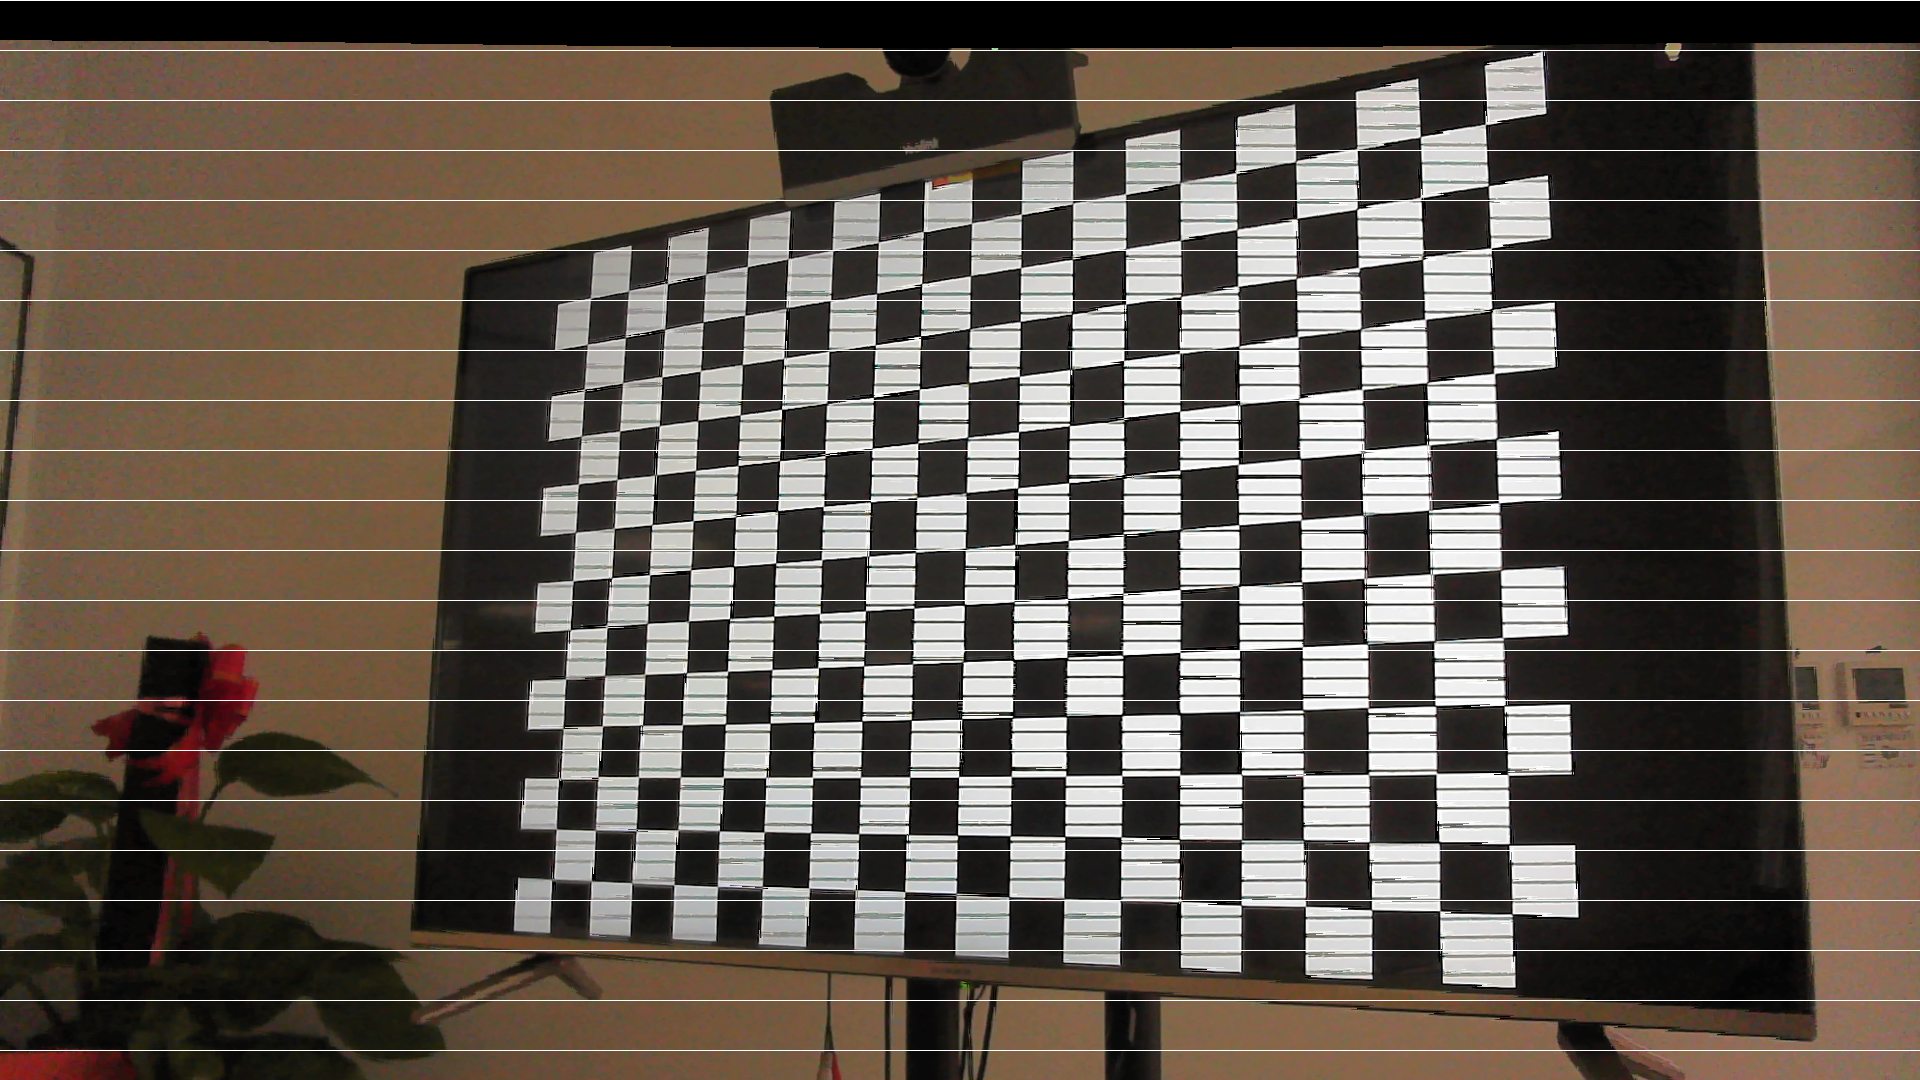
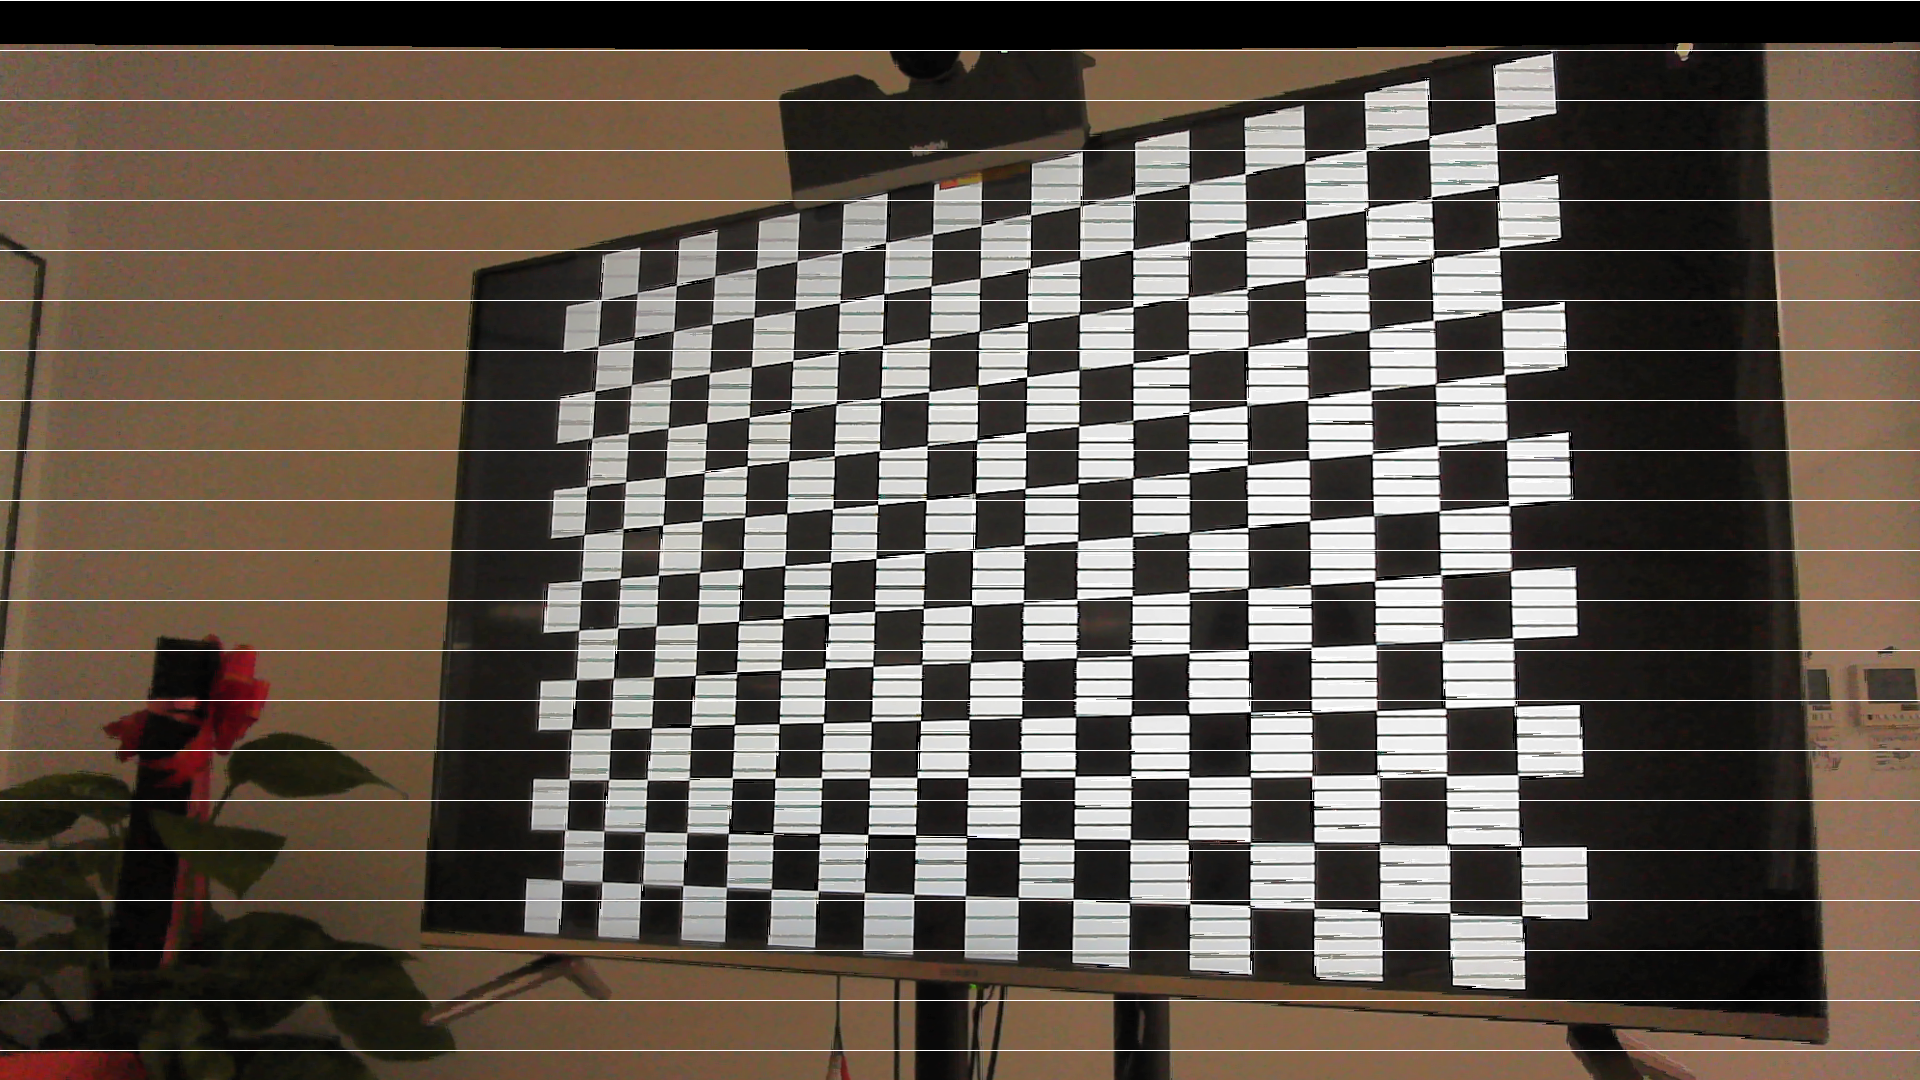
实现映射表形式的极线校正

diff --git a/RectifyImp.cpp b/RectifyImp.cpp
@@ -74,40 +74,6 @@ undistortion(Matrix<double, 3, 1> point, Matrix<double, 1, 6> radial_dis, Matrix
     // 得到倾斜平面的投影矩阵
 }
 
-Matrix<double, 3, 1>
-undistortionPoints(Matrix<double, 3, 1> point, Matrix<double, 3, 3> intrinsic, Matrix<double, 1, 6> radial_dis,
-                   Matrix<double, 1, 2> tangential_dis,Matrix<double, 3, 3> R_new) {
-    // 根据畸变像素坐标以及投影矩阵反解畸变投影坐标
-    double x = point(0), y = point(1);
-    cout << x << "," << y << endl;
-    x = x * intrinsic(0, 0) + intrinsic(0, 2);
-    y = y * intrinsic(1, 1) + intrinsic(1, 2);
-    cout << x << "," << y << endl;
-    // 根据畸变投影坐标以及畸变参数反解标准投影坐标
-    for (int j = 0; j < 5; j++) {
-        double r2 = x * x + y * y;
-        double formula = (1 + radial_dis(3) * r2 + radial_dis(4) * r2 * r2 + radial_dis(5) * r2 * r2 * r2) /
-                         (radial_dis(0) * r2 + radial_dis(1) * r2 * r2 + radial_dis(2) * r2 * r2 * r2);
-        double deltaX = 2 * tangential_dis(0) * x * y + tangential_dis(1) * (r2 + 2 * x * x);
-        double deltaY = tangential_dis(0) * (r2 + 2 * y * y) + 2 * tangential_dis(1) * x * y;
-        x = (x - deltaX) * formula;
-        y = (y - deltaY) * formula;
-    }
-
-    double xx = R_new(0,0)*x + R_new(0,1)*y + R_new(0,2);
-    double yy = R_new(1,0)*x + R_new(1,1)*y + R_new(1,2);
-    double ww = 1./(R_new(2,0)*x + R_new(2,1)*y + R_new(2,2));
-    x = xx*ww;
-    y = yy*ww;
-    point(0) = x;
-    point(1) = y;
-    return point;
-
-
-
-}
-
-
 // 双线性插值法
 vector<int> BilinearInterpolation(Matrix<double, 3, 1> point, cv::Mat image) {
     //cout << point << endl;
@@ -117,9 +83,8 @@ vector<int> BilinearInterpolation(Matrix<double, 3, 1> point, cv::Mat image) {
     bgr1[2] = 0;
     double y = point(0);
     double x = point(1);
-    if (y > 1920 || y < 0 || x > 1080 || x < 0) {
+    if (y > 1920 || y < 0 || x > 1080 || x < 0)
         return bgr1;
-    }
     int x1 = floor(x);
     int x2 = x1 + 1;
     int y1 = floor(y);
@@ -154,20 +119,14 @@ vector<int> BilinearInterpolation(Matrix<double, 3, 1> point, cv::Mat image) {
     double G = ((y - y1) / (y2 - y1)) * G1 + ((y2 - y) / (y2 - y1)) * G2;
     double B = ((y - y1) / (y2 - y1)) * B1 + ((y2 - y) / (y2 - y1)) * B2;
 
-    if (y > 1920 || y < 0 || x > 1080 || x < 0) {
-        R = 0;
-        G = 0;
-        B = 0;
-    }
     bgr1[0] = B;
     bgr1[1] = G;
     bgr1[2] = R;
-    //cout << bgr1[0] << endl;
     return bgr1;
 }
 
 // 多通道图像赋值
-void ColorChart(Mat image, int x, int y, vector<int> point) {
+void ColorChart(Mat &image, int x, int y, vector<int> point) {
     if (y % 50 == 0) {
         point[0] = 255;
         point[1] = 255;
@@ -178,17 +137,46 @@ void ColorChart(Mat image, int x, int y, vector<int> point) {
     image.at<cv::Vec3b>(y, x)[2] = point[2];
 }
 
-//
-Matrix<double, 3, 1>
-ImgRotating(Matrix<double, 3, 1> point, Matrix<double, 3, 3> intrinsic, Matrix<double, 3, 3> leftToright,
-            Matrix<double, 3, 3> R_new, int lorr) {
+void
+mapRectify(Mat &image, Matrix<double, 3, 3> intrinsic, Matrix<double, 3, 3> oneself_intrinsic,
+           Matrix<double, 1, 6> radial_dis, Matrix<double, 1, 2> tangential_dis, Matrix<double, 3, 3> leftToright,
+           Matrix<double, 3, 3> R_new, int lorr, Mat &mapx, Mat &mapy) {
     if (lorr == 0)
-        point = intrinsic * leftToright * R_new.inverse() * point;
+        R_new = oneself_intrinsic * leftToright * R_new.inverse();
     else
-        point = intrinsic * R_new.inverse() * point;
-    return point;
+        R_new = oneself_intrinsic * R_new.inverse();
+#pragma omp parallel for
+    for (int x = 0; x < image.cols; x++) {
+        for (int y = 0; y < image.rows; y++) {
+            Matrix<double, 3, 1> img_pixel, img_image, img_rotating, img_undistortion;
+            img_pixel << x, y, 1;
+            img_image = intrinsic.inverse() * img_pixel;
+            img_undistortion = undistortion(img_image, radial_dis, tangential_dis);
+            img_rotating = R_new * img_undistortion;
+            img_rotating(0) = img_rotating(0) / img_rotating(2);
+            img_rotating(1) = img_rotating(1) / img_rotating(2);
+            mapx.at<double>(y, x) = img_rotating(0);
+            mapy.at<double>(y, x) = img_rotating(1);
+        }
+    }
 }
 
+void remapRectify(Mat &image, Mat &dst, Mat &res, Mat mapx, Mat mapy, int lorr) {
+#pragma omp parallel for
+    for (int u = 0; u < image.cols; u++) {
+        for (int v = 0; v < image.rows; v++) {
+            Matrix<double, 3, 1> point;
+            point << mapx.at<double>(v, u), mapy.at<double>(v, u), 1;
+            vector<int> bgr = BilinearInterpolation(point, image);
+            // 三通道图赋值
+            ColorChart(dst, u, v, bgr);
+            if (lorr == 0)
+                ColorChart(res, u, v, bgr);
+            else if (lorr == -1)
+                ColorChart(res, image.cols + u, v, bgr);
+        }
+    }
+}
 
 // 极线校正
 Mat myPolarRectify(Mat &image, Mat &res, Matrix<double, 3, 3> oneself_intrinsic, Matrix<double, 3, 3> intrinsic,
@@ -199,7 +187,7 @@ Mat myPolarRectify(Mat &image, Mat &res, Matrix<double, 3, 3> oneself_intrinsic,
         R_new = oneself_intrinsic * leftToright * R_new.inverse();
     else
         R_new = oneself_intrinsic * R_new.inverse();
-//    omp_set_num_threads(4);
+    cout << "left11" << endl;
     for (int x = 0; x < image.cols; x++) {
 #pragma omp parallel for
         for (int y = 0; y < image.rows; y++) {
@@ -212,7 +200,6 @@ Mat myPolarRectify(Mat &image, Mat &res, Matrix<double, 3, 3> oneself_intrinsic,
             img_undistortion = undistortion(img_image, radial_dis, tangential_dis);
             // 旋转坐标系
             img_rotating = R_new * img_undistortion;
-            //img_rotating = ImgRotating(img_undistortion, oneself_intrinsic, leftToright, R_new, lorr);
             //坐标归一化
             img_rotating(0) = img_rotating(0) / img_rotating(2);
             img_rotating(1) = img_rotating(1) / img_rotating(2);
@@ -226,7 +213,5 @@ Mat myPolarRectify(Mat &image, Mat &res, Matrix<double, 3, 3> oneself_intrinsic,
                 ColorChart(res, image.cols + x, y, bgr);
         }
     }
-    return dst;
+    return image;
 }
-
-// 新*r*r = 旧

diff --git a/main.cpp b/main.cpp
@@ -1,30 +1,5 @@
 #include "rectify.h"
 
-Matrix<Matrix<double, 3, 1>, 1, 4>
-newPointsUndistort(Matrix<double, 3, 3> &intrinsic, cv::Mat &image, Matrix<double, 1, 6> radial_dis,
-                   Matrix<double, 1, 2> tangential_dis,Matrix<double, 3, 3> R_new) {
-    double h = image.cols, w = image.rows;
-    Matrix<Matrix<double, 3, 1>, 1, 4> points;
-    points << Matrix<double, 3, 1>(0, 0, 1),
-            Matrix<double, 3, 1>(0, w, 1),
-            Matrix<double, 3, 1>(h, w, 1),
-            Matrix<double, 3, 1>(h, 0, 1);
-    points[0] = undistortion(points[0], radial_dis, tangential_dis);
-    points[1] = undistortion(points[1], radial_dis, tangential_dis);
-    points[2] = undistortion(points[2], radial_dis, tangential_dis);
-    points[3] = undistortion(points[3], radial_dis, tangential_dis);
-    cout << points[1] << endl;
-    points[1] = undistortionPoints(points[1], intrinsic, radial_dis, tangential_dis,R_new);
-    cout << points[1] << endl;
-    // 倾斜平面矩阵*point点
-    // 经过判断对x，y点进行放缩
-    // xd*fx+cx
-    // 得到倾斜平面的投影矩阵
-
-    return points;
-}
-
-
 int main() {
     double start = omp_get_wtime();
     Matrix<double, 3, 3> left_intrinsic, right_intrinsic, intrinsic, R_new;
@@ -37,18 +12,34 @@ int main() {
     cv::Mat dst = Mat(left_img.rows, left_img.cols, CV_8UC3, Scalar(0));
     cv::Mat dst1 = Mat(right_img.rows, right_img.cols, CV_8UC3, Scalar(0));
     cv::Mat res = Mat(left_img.rows, left_img.cols * 2, CV_8UC3, Scalar(0));
-    Matrix<Matrix<double, 3, 1>, 1, 4> points = newPointsUndistort(intrinsic, left_img, left_radial_dis,
-                                                                   left_tangential_dis,R_new);
     // 获取相机参数信息并取得新的旋转矩阵
     R_new = ParametersCamera(left_intrinsic, right_intrinsic, intrinsic, leftToright, translation_vector,
                              left_radial_dis,
                              right_radial_dis, left_tangential_dis, right_tangential_dis);
-    // 左相机处理
-    dst = myPolarRectify(left_img, res, left_intrinsic, intrinsic, left_radial_dis, left_tangential_dis, leftToright,
-                         R_new, 0);
-    // 右相机处理
-    dst1 = myPolarRectify(right_img, res, right_intrinsic, intrinsic, right_radial_dis, right_tangential_dis,
-                          leftToright, R_new, -1);
+//    // 左相机处理
+//    dst = myPolarRectify(left_img, res, left_intrinsic, intrinsic, left_radial_dis, left_tangential_dis, leftToright,
+//                         R_new, 0);
+//    // 右相机处理
+//    dst1 = myPolarRectify(right_img, res, right_intrinsic, intrinsic, right_radial_dis, right_tangential_dis,
+//                          leftToright, R_new, -1);
+//-------------------------------映射表形式
+    cv::Mat mapx_l = Mat(left_img.rows, left_img.cols, CV_64F, Scalar(0));
+    cv::Mat mapy_l = Mat(left_img.rows, left_img.cols, CV_64F, Scalar(0));
+    int x,y;
+    double *mpx = mapx_l.ptr<double>(1079);
+    mapRectify(left_img, intrinsic, left_intrinsic, left_radial_dis, left_tangential_dis, leftToright, R_new, 0, mapx_l,
+               mapy_l);
+
+    cv::Mat mapx_r = Mat(right_img.rows, right_img.cols, CV_64F, Scalar(0));
+    cv::Mat mapy_r = Mat(right_img.rows, right_img.cols, CV_64F, Scalar(0));
+    mapRectify(right_img, intrinsic, right_intrinsic, right_radial_dis, right_tangential_dis, leftToright, R_new, 0,
+               mapx_r, mapy_r);
+
+    cout << mpx[1919]<<endl;
+    cout << mapy_l.ptr<double>(1079) [1919]<<endl;
+    remapRectify(left_img, dst, res, mapx_l, mapy_l, 0);
+    remapRectify(right_img, dst1, res, mapx_r, mapy_r, -1);
+
     imwrite("../images/left_2.png", dst);
     imwrite("../images/right_2.png", dst1);
     imwrite("../images/result_2.png", res);

diff --git a/test.cpp b/test.cpp
@@ -66,3 +66,42 @@
 //                        0, new_f[1], new_c[1],
 //                        0, 0, 1)) << endl;
 //}
+
+//// 极线校正
+//Mat myPolarRectify(Mat &image, Mat &res, Matrix<double, 3, 3> oneself_intrinsic, Matrix<double, 3, 3> intrinsic,
+//                   Matrix<double, 1, 6> radial_dis, Matrix<double, 1, 2> tangential_dis,
+//                   Matrix<double, 3, 3> leftToright, Matrix<double, 3, 3> R_new, int lorr) {
+//    cv::Mat dst = Mat(image.rows, image.cols, CV_8UC3, Scalar(0));
+//    if (lorr == 0)
+//        R_new = oneself_intrinsic * leftToright * R_new.inverse();
+//    else
+//        R_new = oneself_intrinsic * R_new.inverse();
+//    cout << "left11" << endl;
+//    for (int x = 0; x < image.cols; x++) {
+//#pragma omp parallel for
+//        for (int y = 0; y < image.rows; y++) {
+//            Matrix<double, 3, 1> img_pixel, img_image, img_rotating, img_undistortion;
+//            img_pixel << x, y, 1;
+//            //cout << x << "," << y  << endl;
+//            // 像素坐标系转向相机坐标系
+//            img_image = intrinsic.inverse() * img_pixel;
+//            // 去畸变（图加畸变）
+//            img_undistortion = undistortion(img_image, radial_dis, tangential_dis);
+//            // 旋转坐标系
+//            img_rotating = R_new * img_undistortion;
+//            //img_rotating = ImgRotating(img_undistortion, oneself_intrinsic, leftToright, R_new, lorr);
+//            //坐标归一化
+//            img_rotating(0) = img_rotating(0) / img_rotating(2);
+//            img_rotating(1) = img_rotating(1) / img_rotating(2);
+//            // 通过插值法获取像素值
+//            vector<int> bgr = BilinearInterpolation(img_rotating, image);
+//            // 三通道图赋值
+//            ColorChart(dst, x, y, bgr);
+//            if (lorr == 0)
+//                ColorChart(res, x, y, bgr);
+//            else if (lorr == -1)
+//                ColorChart(res, image.cols + x, y, bgr);
+//        }
+//    }
+//    return image;
+//}

diff --git a/rectify.h b/rectify.h
@@ -32,22 +32,20 @@ Matrix<double, 3, 3> ParametersCamera(Matrix<double, 3, 3> &left_intrinsic, Matr
 Matrix<double, 3, 1>
 undistortion(Matrix<double, 3, 1> point, Matrix<double, 1, 6> radial_dis, Matrix<double, 1, 2> tangential_dis);
 
-Matrix<double, 3, 1>
-undistortionPoints(Matrix<double, 3, 1> point, Matrix<double, 3, 3> intrinsic, Matrix<double, 1, 6> radial_dis,
-                   Matrix<double, 1, 2> tangential_dis,Matrix<double, 3, 3> R_new);
-
 // 双线性插值法
 vector<int> BilinearInterpolation(Matrix<double, 3, 1> point, cv::Mat Rimage);
 
-//
-Matrix<double, 3, 1>
-ImgRotating(Matrix<double, 3, 1> point_pre, Matrix<double, 3, 3> intrinsic, Matrix<double, 3, 3> matrix_rot,
-            Matrix<double, 3, 3> R_new, int lorr);
-
 // 多通道图像赋值
-void ColorChart(Mat image, int x, int y, vector<int> point);
+void ColorChart(Mat &image, int x, int y, vector<int> point);
 
 // 极线校正
 Mat myPolarRectify(Mat &image, Mat &res, Matrix<double, 3, 3> oneself_intrinsic, Matrix<double, 3, 3> intrinsic,
                    Matrix<double, 1, 6> radial_dis, Matrix<double, 1, 2> tangential_dis,
                    Matrix<double, 3, 3> leftToright, Matrix<double, 3, 3> R_new, int lorr);
+
+void
+mapRectify(Mat &image, Matrix<double, 3, 3> intrinsic, Matrix<double, 3, 3> oneself_intrinsic,
+           Matrix<double, 1, 6> radial_dis, Matrix<double, 1, 2> tangential_dis, Matrix<double, 3, 3> leftToright,
+           Matrix<double, 3, 3> R_new, int lorr, Mat &mapx, Mat &mapy);
+
+void remapRectify(Mat &image, Mat &dst, Mat &res, Mat mapx, Mat mapy, int lorr);
